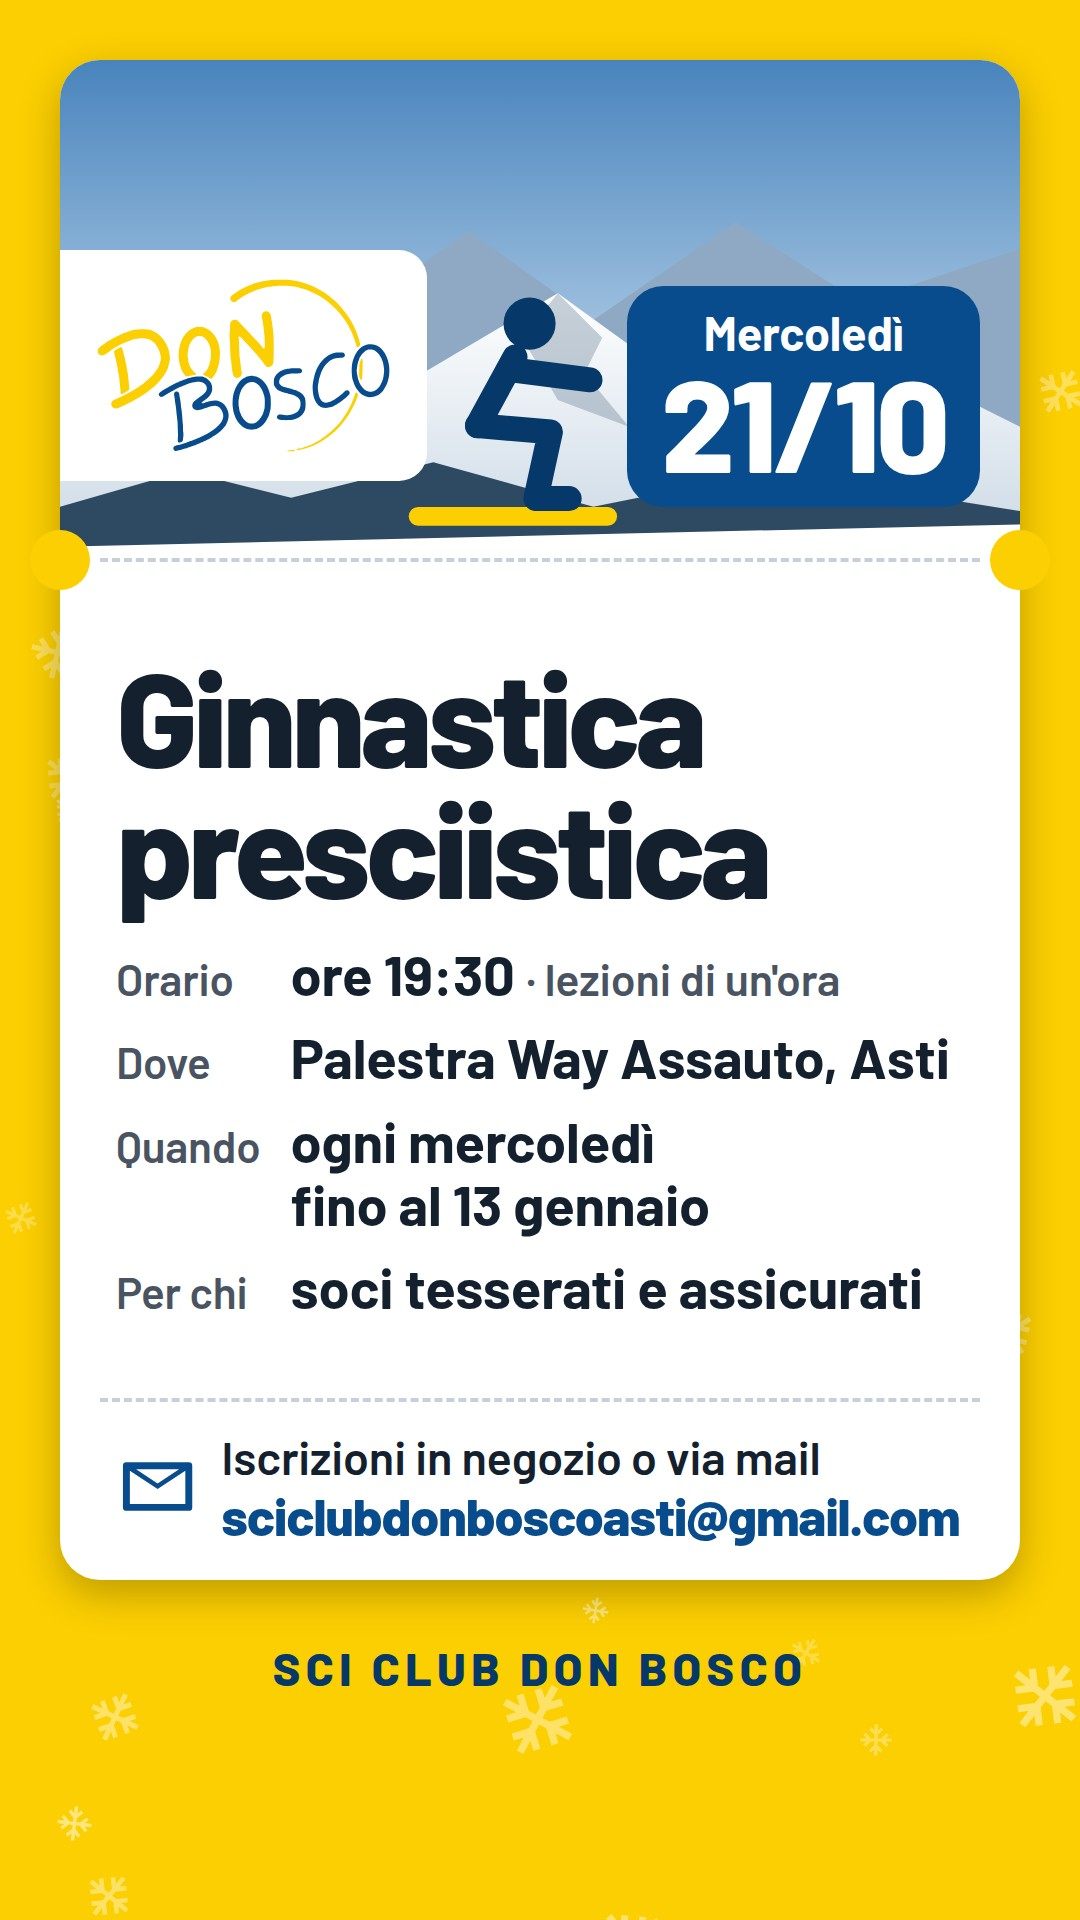
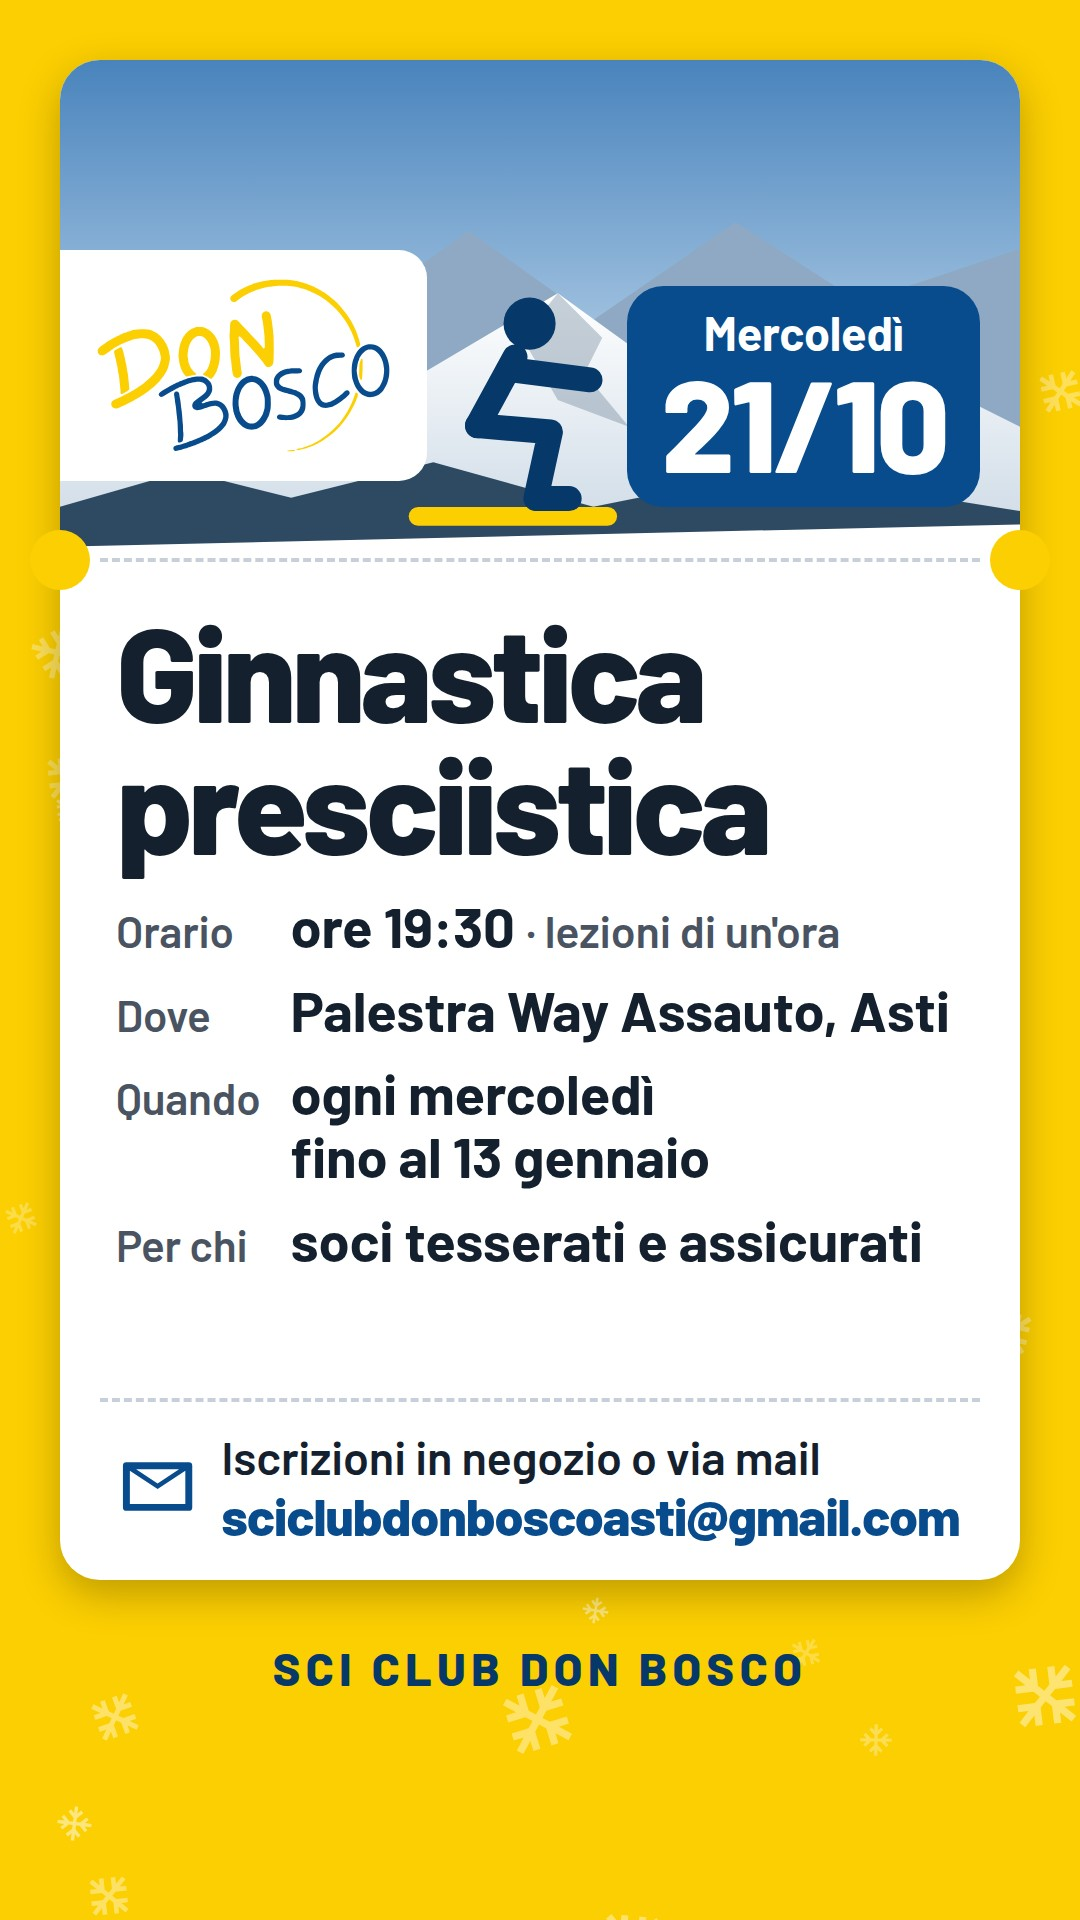
docs(social): proposte con il testo sempre nello stesso punto [skip ci]
In ogni proposta titolo, fascia e testo partono dallo stesso punto in tutti
i post e un testo più lungo scende soltanto: in A la foto in alto è alta
uguale per tutti (prima cambiava da post a post e spostava il testo); in B
gli elementi partono dall'alto con spazi fissi; in C gancio e disegno hanno
altezza fissa, così la fascia centrale e il testo sotto stanno sempre lì,
tranne nel calendario. In B il calendario perde la griglia dei giorni, che
ripeteva le date: le gite sono righe nel foglio del mese. I controlli di
comune.js ora stampano le coordinate di titolo, fascia e testo.

Changed region(s): [[0.0917, 0.3125, 0.8861, 0.6875]]

diff --git a/grafica/proposte-post-social/sorgenti/calendario-b.html b/grafica/proposte-post-social/sorgenti/calendario-b.html
@@ -6,8 +6,8 @@
 <link rel="stylesheet" href="https://fonts.googleapis.com/css2?family=Barlow:wght@500;600;700;800&display=block">
 <link rel="stylesheet" href="comune.css">
 <link rel="stylesheet" href="b.css">
-<!-- Il calendario del mese è il caso naturale di B: il foglio diventa il mese intero,
-     con i giorni di gita nel loro colore; sotto, le mete. -->
+<!-- Il calendario del mese: le gite in righe dentro il foglio a strappo, con la testata
+     del mese. Senza la griglia dei giorni, che ripeteva le stesse date. -->
 <style>
 html { --cat: #FCCF02; --cat-ink: #06396A; }
 .titolo { font-size: 96px; }
@@ -15,19 +15,14 @@ html { --cat: #FCCF02; --cat-ink: #06396A; }
 .mese-intero .mese { background: var(--cat); color: var(--cat-ink); font-size: 50px; font-weight: 800; text-align: center;
   border-radius: 28px 28px 0 0; padding: 26px 0 12px; }
 .mese-intero .anello { position: absolute; top: -22px; width: 30px; height: 58px; border-radius: 15px; background: #D5DAE1; border: 5px solid #14202E; }
-.griglia { display: grid; grid-template-columns: repeat(7, 1fr); padding: 8px 24px 0; text-align: center; }
-.griglia b { font-size: 34px; font-weight: 700; color: var(--testo-soft); padding: 6px 0; }
-.griglia span { font-size: 40px; font-weight: 700; height: 68px; display: flex; align-items: center; justify-content: center; position: relative; }
-.griglia span.g { margin: 4px 14px; border-radius: 18px; font-weight: 800; }
-.griglia span.c::after { content: ""; position: absolute; right: 2px; top: -2px; width: 22px; height: 22px; border-radius: 50%;
-  background: #fff; border: 4px solid var(--blu); }
-.mete { display: grid; grid-template-columns: 1fr 1fr; column-gap: 30px; row-gap: 14px; color: #fff; }
-.mete div { display: flex; align-items: center; gap: 16px; font-size: 42px; font-weight: 800; letter-spacing: -.01em; white-space: nowrap; }
-.mete i { flex: none; font-style: normal; width: 92px; text-align: center; border-radius: 14px; font-size: 36px; padding: 2px 0; border: 3px solid #fff; }
-.mete small { font-size: 34px; font-weight: 600; color: #E7EFF7; }
+.righe { padding: 6px 28px 0; }
+.righe div { display: flex; align-items: center; gap: 20px; padding: 13px 0; border-bottom: 2px solid #E4E6EB; }
+.righe div:last-child { border-bottom: 0; }
+.righe i { flex: none; font-style: normal; width: 210px; text-align: center; border-radius: 999px; font-size: 36px; font-weight: 800; padding: 6px 0; }
+.righe .meta { font-size: 52px; font-weight: 700; line-height: 1.1; color: var(--testo); }
+/* Il corso contornato, non pieno: il giallo dei corsi si confonderebbe con la domenica. */
+.righe .corso { margin-left: auto; flex: none; font-size: 34px; font-weight: 800; color: var(--blu); border: 3px solid var(--blu); border-radius: 14px; padding: 2px 14px; }
 .dom { background: #FCCF02; color: #06396A; } .sab { background: #084C8D; color: #fff; }
-.legenda { color: #fff; font-size: 34px; font-weight: 600; display: flex; align-items: center; gap: 14px; margin-top: -10px; }
-.legenda i { width: 22px; height: 22px; border-radius: 50%; background: #fff; border: 4px solid var(--blu); outline: 3px solid #fff; }
 </style>
 </head>
 <body>
@@ -46,25 +41,15 @@ html { --cat: #FCCF02; --cat-ink: #06396A; }
     <div class="mese-intero">
       <div class="anello" style="left:22%"></div><div class="anello" style="right:22%"></div>
       <div class="mese">Gennaio 2027</div>
-      <!-- Il 1° gennaio 2027 è venerdì. g = giorno di gita, c = col corso. -->
-      <div class="griglia">
-        <b>L</b><b>M</b><b>M</b><b>G</b><b>V</b><b>S</b><b>D</b>
-        <span></span><span></span><span></span><span></span><span>1</span><span>2</span><span>3</span>
-        <span>4</span><span>5</span><span>6</span><span>7</span><span>8</span><span>9</span><span class="g c dom">10</span>
-        <span>11</span><span>12</span><span>13</span><span>14</span><span>15</span><span class="g sab">16</span><span class="g c dom">17</span>
-        <span>18</span><span>19</span><span>20</span><span>21</span><span>22</span><span class="g sab">23</span><span class="g c dom">24</span>
-        <span>25</span><span>26</span><span>27</span><span>28</span><span>29</span><span>30</span><span class="g c dom">31</span>
+      <div class="righe">
+        <div><i class="dom">Dom 10/01</i><span class="meta">Prato Nevoso</span><span class="corso">Corso</span></div>
+        <div><i class="sab">Sab 16/01</i><span class="meta">Sestriere</span></div>
+        <div><i class="dom">Dom 17/01</i><span class="meta">La Thuile</span><span class="corso">Corso</span></div>
+        <div><i class="sab">Sab 23/01</i><span class="meta">Courmayeur</span></div>
+        <div><i class="dom">Dom 24/01</i><span class="meta">Cervinia</span><span class="corso">Corso</span></div>
+        <div><i class="dom">Dom 31/01</i><span class="meta">Pila</span><span class="corso">Corso</span></div>
       </div>
     </div>
-    <div class="mete">
-      <div><i class="dom">10</i>Prato Nevoso</div>
-      <div><i class="sab">23</i>Courmayeur</div>
-      <div><i class="sab">16</i>Sestriere</div>
-      <div><i class="dom">24</i>Cervinia</div>
-      <div><i class="dom">17</i>La Thuile</div>
-      <div><i class="dom">31</i>Pila</div>
-    </div>
-    <div class="legenda"><i></i>con il corso di sci</div>
     <div class="iscrizioni">
       <svg viewBox="0 0 24 24" fill="#FCCF02" aria-hidden="true"><path d="M3 5h18a1 1 0 0 1 1 1v12a1 1 0 0 1-1 1H3a1 1 0 0 1-1-1V6a1 1 0 0 1 1-1zm1 2.4V17h16V7.4l-8 5.3-8-5.3zM5.8 7 12 11.1 18.2 7H5.8z"/></svg>
       <div>Iscrizioni in negozio o via mail<b>sciclubdonboscoasti@gmail.com</b></div>

diff --git a/grafica/proposte-post-social/sorgenti/corso-c.html b/grafica/proposte-post-social/sorgenti/corso-c.html
@@ -20,20 +20,25 @@ html.story .contenuto { top: 262px; bottom: 352px; }
 .testa .logo-box { border-radius: 22px; padding: 12px 18px; }
 .testa .logo-box img { height: 150px; }
 
-.gancio { flex: none; font-size: 158px; font-weight: 800; letter-spacing: -.045em; line-height: .9; margin-top: 30px; }
+/* Nel post, altezze fisse come negli altri post di C: la fascia e il testo sotto stanno
+ * sempre nello stesso punto. */
+.gancio { flex: none; height: 270px; font-size: 150px; font-weight: 800; letter-spacing: -.045em; line-height: .9; margin-top: 28px; }
+html.story .gancio { height: auto; }
 html.story .gancio { font-size: 176px; margin-top: 44px; }
 
 .scena { flex: 1 1 0; min-height: 0; position: relative; z-index: 1; margin-bottom: -14px; }
+html.post .scena { flex: none; height: 180px; }
 .scena svg { position: absolute; inset: 0; width: 100%; height: 100%; }
 
 .nastro { flex: none; position: relative; z-index: 2; margin: 0 -110px; background: var(--blu-dark); color: #fff;
-  transform: rotate(-2deg); text-align: center; font-size: 80px; font-weight: 800; letter-spacing: -.03em; padding: 16px 0 22px;
+  transform: rotate(-2deg); text-align: center; font-size: 72px; font-weight: 800; letter-spacing: -.03em; padding: 16px 0 22px; white-space: nowrap;
   box-shadow: 0 10px 24px rgba(6,57,106,.3); }
 html.story .nastro { font-size: 88px; }
 
-.info { flex: none; margin-top: 36px; }
-.info .quando { font-size: 60px; font-weight: 800; letter-spacing: -.025em; line-height: 1.1; }
-.info .dove { font-size: 52px; font-weight: 700; margin-top: 8px; line-height: 1.15; }
+.info { flex: none; margin-top: 34px; }
+html.post .info { flex: 1 1 auto; }
+.info .quando { font-size: 58px; font-weight: 800; letter-spacing: -.025em; line-height: 1.1; }
+.info .dove { font-size: 46px; font-weight: 700; margin-top: 8px; line-height: 1.15; }
 .info .poi { font-size: 40px; font-weight: 600; margin-top: 10px; line-height: 1.2; }
 .info .poi + .poi { margin-top: 4px; }
 /* Iscrizioni e mail, come in fondo al biglietto di A. */

diff --git a/grafica/proposte-post-social/sorgenti/c.css b/grafica/proposte-post-social/sorgenti/c.css
@@ -9,16 +9,18 @@
 .testa .logo-box { border-radius: 22px; padding: 12px 18px; }
 .testa .logo-box img { height: 150px; }
 
-.gancio { flex: none; font-size: 150px; font-weight: 800; letter-spacing: -.045em; line-height: .9; margin-top: 28px; color: var(--gancio, inherit); }
+/* Altezze fisse (gancio su due righe, disegno): la fascia e il testo sotto stanno
+ * sempre nello stesso punto in tutti i post. */
+.gancio { flex: none; height: 270px; font-size: 150px; font-weight: 800; letter-spacing: -.045em; line-height: .9; margin-top: 28px; color: var(--gancio, inherit); }
 
-.scena { flex: 1 1 0; min-height: 0; position: relative; z-index: 1; margin-bottom: -14px; }
+.scena { flex: none; height: 180px; position: relative; z-index: 1; margin-bottom: -14px; }
 .scena svg { position: absolute; inset: 0; width: 100%; height: 100%; }
 
 .nastro { flex: none; position: relative; z-index: 2; margin: 0 -110px; background: var(--nastro, var(--blu-dark)); color: var(--nastro-ink, #fff);
-  transform: rotate(-2deg); text-align: center; font-size: 80px; font-weight: 800; letter-spacing: -.03em; padding: 16px 0 22px;
+  transform: rotate(-2deg); text-align: center; font-size: 72px; font-weight: 800; letter-spacing: -.03em; padding: 16px 0 22px; white-space: nowrap;
   box-shadow: 0 10px 24px rgba(6,57,106,.3); }
 
-.info { flex: none; margin-top: 34px; }
+.info { flex: 1 1 auto; margin-top: 34px; }
 .info .quando { font-size: 58px; font-weight: 800; letter-spacing: -.025em; line-height: 1.1; }
 .info .riga { font-size: 46px; font-weight: 700; margin-top: 8px; line-height: 1.15; }
 .info .poi { font-size: 40px; font-weight: 600; margin-top: 8px; line-height: 1.2; }

diff --git a/grafica/proposte-post-social/sorgenti/a.css b/grafica/proposte-post-social/sorgenti/a.css
@@ -27,12 +27,14 @@ html { --m: 60px; --scena: 330px; --accento: var(--blu); }
 .taglio i { position: absolute; left: 40px; right: 40px; top: -2px; border-top: 4px dashed var(--filo); }
 .luna { position: absolute; top: calc(var(--m) + var(--scena) - 30px); width: 60px; height: 60px; border-radius: 50%; background: var(--cat); }
 
-.testo { flex: 1 1 auto; display: flex; flex-direction: column; justify-content: center; gap: 22px; padding: 20px 56px 12px; }
-h1 { font-size: 116px; font-weight: 800; letter-spacing: -.035em; line-height: .98; }
+/* Il testo parte sempre dallo stesso punto, sotto la scena alta uguale in tutti i
+ * post: se è lungo scende, non si sposta. */
+.testo { flex: 1 1 auto; display: flex; flex-direction: column; justify-content: flex-start; gap: 22px; padding: 34px 56px 12px; }
+h1 { font-size: 104px; font-weight: 800; letter-spacing: -.035em; line-height: .98; }
 h1 small { display: block; font-size: 40px; font-weight: 700; letter-spacing: -.01em; color: var(--testo-soft); margin-top: 12px; line-height: 1.15; }
 .fatti { display: grid; grid-template-columns: auto 1fr; column-gap: 30px; row-gap: 14px; align-items: baseline; }
 .fatti dt { font-size: 36px; font-weight: 600; color: var(--testo-soft); }
-.fatti dd { font-size: 48px; font-weight: 700; line-height: 1.12; }
+.fatti dd { font-size: 50px; font-weight: 700; line-height: 1.12; }
 .fatti .forte { color: var(--accento); font-weight: 800; }
 
 .iscrizioni { flex: none; margin: 0 40px; border-top: 4px dashed var(--filo);

diff --git a/grafica/proposte-post-social/sorgenti/b.css b/grafica/proposte-post-social/sorgenti/b.css
@@ -4,8 +4,9 @@
  * le informazioni, sotto la frase in evidenza e le iscrizioni. Solo post 4:5. */
 .cv { background: var(--blu); }
 .monti { position: absolute; left: 0; right: 0; bottom: 0; width: 1080px; height: 330px; }
+/* Dall'alto, con spazi fissi: il titolo sta sempre nello stesso punto; le iscrizioni in fondo. */
 .contenuto { position: absolute; left: 60px; right: 60px; top: 56px; bottom: 60px;
-  display: flex; flex-direction: column; justify-content: space-between; }
+  display: flex; flex-direction: column; gap: 34px; }
 
 .testa { display: flex; justify-content: space-between; align-items: flex-start; }
 .testa .logo-box { border-radius: 22px; padding: 12px 18px; }
@@ -34,7 +35,7 @@
   box-shadow: 0 12px 30px rgba(0,0,0,.3); font-size: 52px; font-weight: 800; letter-spacing: -.02em; line-height: 1.1; }
 .evidenza em { font-style: normal; color: var(--giallo); }
 
-.iscrizioni { display: flex; gap: 22px; align-items: center; color: #fff; padding: 0 8px; }
+.iscrizioni { margin-top: auto; display: flex; gap: 22px; align-items: center; color: #fff; padding: 0 8px; }
 .iscrizioni svg { flex: none; width: 64px; height: 64px; }
 .iscrizioni div { font-size: 36px; font-weight: 600; line-height: 1.2; }
 .iscrizioni b { display: block; font-size: 42px; font-weight: 800; color: var(--giallo); letter-spacing: -.02em; }

diff --git a/grafica/proposte-post-social/sorgenti/corso-a.html b/grafica/proposte-post-social/sorgenti/corso-a.html
@@ -39,9 +39,10 @@ html.story .scena .logo-box { border-top-right-radius: 28px; }
 .taglio i { position: absolute; left: 40px; right: 40px; top: -2px; border-top: 4px dashed var(--filo); }
 .luna { position: absolute; top: calc(var(--m) + var(--scena) - 30px); width: 60px; height: 60px; border-radius: 50%; background: var(--corso); }
 
-.testo { flex: 1 1 auto; display: flex; flex-direction: column; justify-content: center;
-  gap: calc(24px * var(--k)); padding: calc(24px * var(--k)) 56px calc(16px * var(--k)); }
-h1 { font-size: calc(122px * var(--k)); font-weight: 800; letter-spacing: -.035em; line-height: .98; }
+/* Il testo parte sempre dallo stesso punto, come negli altri post di A. */
+.testo { flex: 1 1 auto; display: flex; flex-direction: column; justify-content: flex-start;
+  gap: calc(22px * var(--k)); padding: calc(34px * var(--k)) 56px calc(16px * var(--k)); }
+h1 { font-size: 104px; font-weight: 800; letter-spacing: -.035em; line-height: .98; }
 .fatti { display: grid; grid-template-columns: auto 1fr; column-gap: 30px; row-gap: calc(16px * var(--k)); align-items: baseline; }
 .fatti dt { font-size: calc(36px * var(--k)); font-weight: 600; color: var(--testo-soft); }
 .fatti dd { font-size: calc(50px * var(--k)); font-weight: 700; line-height: 1.12; }

diff --git a/grafica/proposte-post-social/sorgenti/calendario-a.html b/grafica/proposte-post-social/sorgenti/calendario-a.html
@@ -6,14 +6,12 @@
 <link rel="stylesheet" href="https://fonts.googleapis.com/css2?family=Barlow:wght@500;600;700;800&display=block">
 <link rel="stylesheet" href="comune.css">
 <link rel="stylesheet" href="a.css">
-<!-- Calendario del mese: il blu del club (categoria "cal"), scena più bassa per fare posto alle righe. -->
+<!-- Calendario del mese: il blu del club (categoria "cal"), la scena alta come negli altri post. -->
 <style>
-html { --cat: #084C8D; --scena: 250px; }
-.testo { justify-content: center; gap: 22px; }
-h1 { font-size: 100px; }
+html { --cat: #084C8D; }
 /* Righe come calRows() di social-templates.js: il giorno nel colore della gita, la meta, il corso. */
 .righe { display: flex; flex-direction: column; }
-.righe div { display: flex; align-items: center; gap: 22px; padding: 18px 0; border-bottom: 2px solid #E4E6EB; }
+.righe div { display: flex; align-items: center; gap: 22px; padding: 9px 0; border-bottom: 2px solid #E4E6EB; }
 .giorno { flex: none; width: 230px; text-align: center; border-radius: 999px; font-size: 36px; font-weight: 800; padding: 6px 0; }
 .meta { font-size: 54px; font-weight: 700; line-height: 1.1; }
 /* Il corso senza colore pieno: il giallo dei corsi qui si confonderebbe con la domenica. */

diff --git a/grafica/proposte-post-social/sorgenti/corso-b.html b/grafica/proposte-post-social/sorgenti/corso-b.html
@@ -12,7 +12,6 @@
  * sono quelle di A (orario e durata, palestra, fino a quando, per chi,
  * iscrizioni e mail): cambia solo come sono disegnate. */
 html { --k: 1; }
-.contenuto { justify-content: space-between; }
 html.story { --k: 1.02; }
 .cv { background: var(--blu); }
 .monti { position: absolute; left: 0; right: 0; bottom: 0; width: 1080px; height: 330px; }
@@ -60,7 +59,7 @@ html.story .iscrizioni b { font-size: 46px; }
 .durata .frase em { font-style: normal; color: var(--giallo); }
 
 /* Iscrizioni e mail, come in fondo al biglietto di A. */
-.iscrizioni { display: flex; gap: 22px; align-items: center; color: #fff; padding: 0 8px; }
+.iscrizioni { margin-top: auto; display: flex; gap: 22px; align-items: center; color: #fff; padding: 0 8px; }
 .iscrizioni svg { flex: none; width: calc(64px * var(--k)); height: calc(64px * var(--k)); }
 .iscrizioni div { font-size: calc(36px * var(--k)); font-weight: 600; line-height: 1.2; }
 .iscrizioni b { display: block; font-size: calc(42px * var(--k)); font-weight: 800; color: var(--giallo); letter-spacing: -.02em; }

diff --git a/grafica/proposte-post-social/sorgenti/evento-c.html b/grafica/proposte-post-social/sorgenti/evento-c.html
@@ -9,13 +9,11 @@
 <!-- Evento: il blu del club, gancio e nastro gialli come il calendario; si brinda con lo spumante. -->
 <style>
 html { --cat: #084C8D; --cat-ink: #fff; --gancio: #FCCF02; --nastro: #FCCF02; --nastro-ink: #06396A; }
-.gancio { font-size: 140px; }
-.nastro { font-size: 70px; }
 .info .quando { font-size: 56px; }
 /* Il disegno accanto al gancio: sotto, i dati sono tanti e non gli lascerebbero posto. */
-.su { flex: none; display: flex; align-items: flex-end; gap: 10px; margin-top: 28px; }
+.su { flex: none; display: flex; gap: 10px; margin-top: 28px; height: 450px; margin-bottom: -14px; }
 .su .gancio { margin-top: 0; }
-.su svg { flex: 1 1 auto; height: 300px; }
+.su svg { flex: 1 1 auto; height: 100%; }
 </style>
 </head>
 <body>
@@ -46,7 +44,6 @@ html { --cat: #084C8D; --cat-ink: #fff; --gancio: #FCCF02; --nastro: #FCCF02; --
         </g>
       </svg>
     </div>
-    <div class="scena"></div>
     <div class="nastro">Cena di fine stagione</div>
     <div class="info">
       <div class="quando">Sabato 10 aprile · ore 20:00</div>

diff --git a/grafica/proposte-post-social/sorgenti/comune.js b/grafica/proposte-post-social/sorgenti/comune.js
@@ -36,5 +36,12 @@ if (verifica) document.fonts.ready.then(() => {
     if (getComputedStyle(el).overflow !== "hidden" || el.matches(".cv,[data-decoro]")) return;
     if (el.scrollHeight > el.clientHeight + 1 || el.scrollWidth > el.clientWidth + 1) problemi.push(`taglia: ${el.className} (${el.scrollWidth}×${el.scrollHeight} in ${el.clientWidth}×${el.clientHeight})`);
   });
-  document.title = "VERIFICA " + JSON.stringify(problemi);
+  // Dove partono titolo, fascia e testo: fra i post della stessa proposta
+  // devono coincidere (il testo lungo può solo scendere più in basso).
+  const pos = {};
+  for (const sel of ["h1", ".titolo", ".gancio", ".nastro", ".info", ".fatti", ".righe"]) {
+    const el = document.querySelector(sel);
+    if (el) pos[sel] = Math.round(el.getBoundingClientRect().top);
+  }
+  document.title = "VERIFICA " + JSON.stringify(problemi) + " POS " + JSON.stringify(pos);
 });

diff --git a/grafica/proposte-post-social/sorgenti/tavola.html b/grafica/proposte-post-social/sorgenti/tavola.html
@@ -28,7 +28,7 @@ img { display: block; width: 380px; border-radius: 12px; box-shadow: 0 6px 20px 
 <script>
 const PROPOSTE = {
   a: { nome: "Biglietto", idea: "Il biglietto bianco sul colore del post, in alto la foto caricata nel generatore (senza foto, il disegno)." },
-  b: { nome: "Calendario", idea: "Sempre il blu del club; il foglio a strappo porta la data, il calendario diventa il mese intero." },
+  b: { nome: "Calendario", idea: "Sempre il blu del club; il foglio a strappo porta la data; nel calendario, le gite del mese sul foglio." },
   c: { nome: "Divano", idea: "Il manifesto: un gancio grande scritto per ogni post («Alzati dal divano!», «Tutti a La Thuile!»…) e un disegno." },
 };
 const chiave = location.hash.slice(1) in PROPOSTE ? location.hash.slice(1) : "a", p = PROPOSTE[chiave];

diff --git a/grafica/proposte-post-social/sorgenti/calendario-c.html b/grafica/proposte-post-social/sorgenti/calendario-c.html
@@ -9,8 +9,7 @@
 <!-- Calendario: blu del club con il giallo per gancio e nastro (categoria "cal"); le righe al posto del disegno. -->
 <style>
 html { --cat: #084C8D; --cat-ink: #fff; --gancio: #FCCF02; --nastro: #FCCF02; --nastro-ink: #06396A; }
-.gancio { font-size: 136px; }
-.nastro { font-size: 64px; margin-top: 34px; }
+.nastro { margin-top: 34px; }
 .righe { flex: 1 1 auto; display: flex; flex-direction: column; justify-content: center; gap: 10px; margin-top: 26px; }
 .righe div { display: flex; align-items: center; gap: 20px; }
 .giorno { flex: none; width: 210px; text-align: center; border-radius: 999px; font-size: 36px; font-weight: 800; padding: 4px 0; border: 3px solid #fff; }
